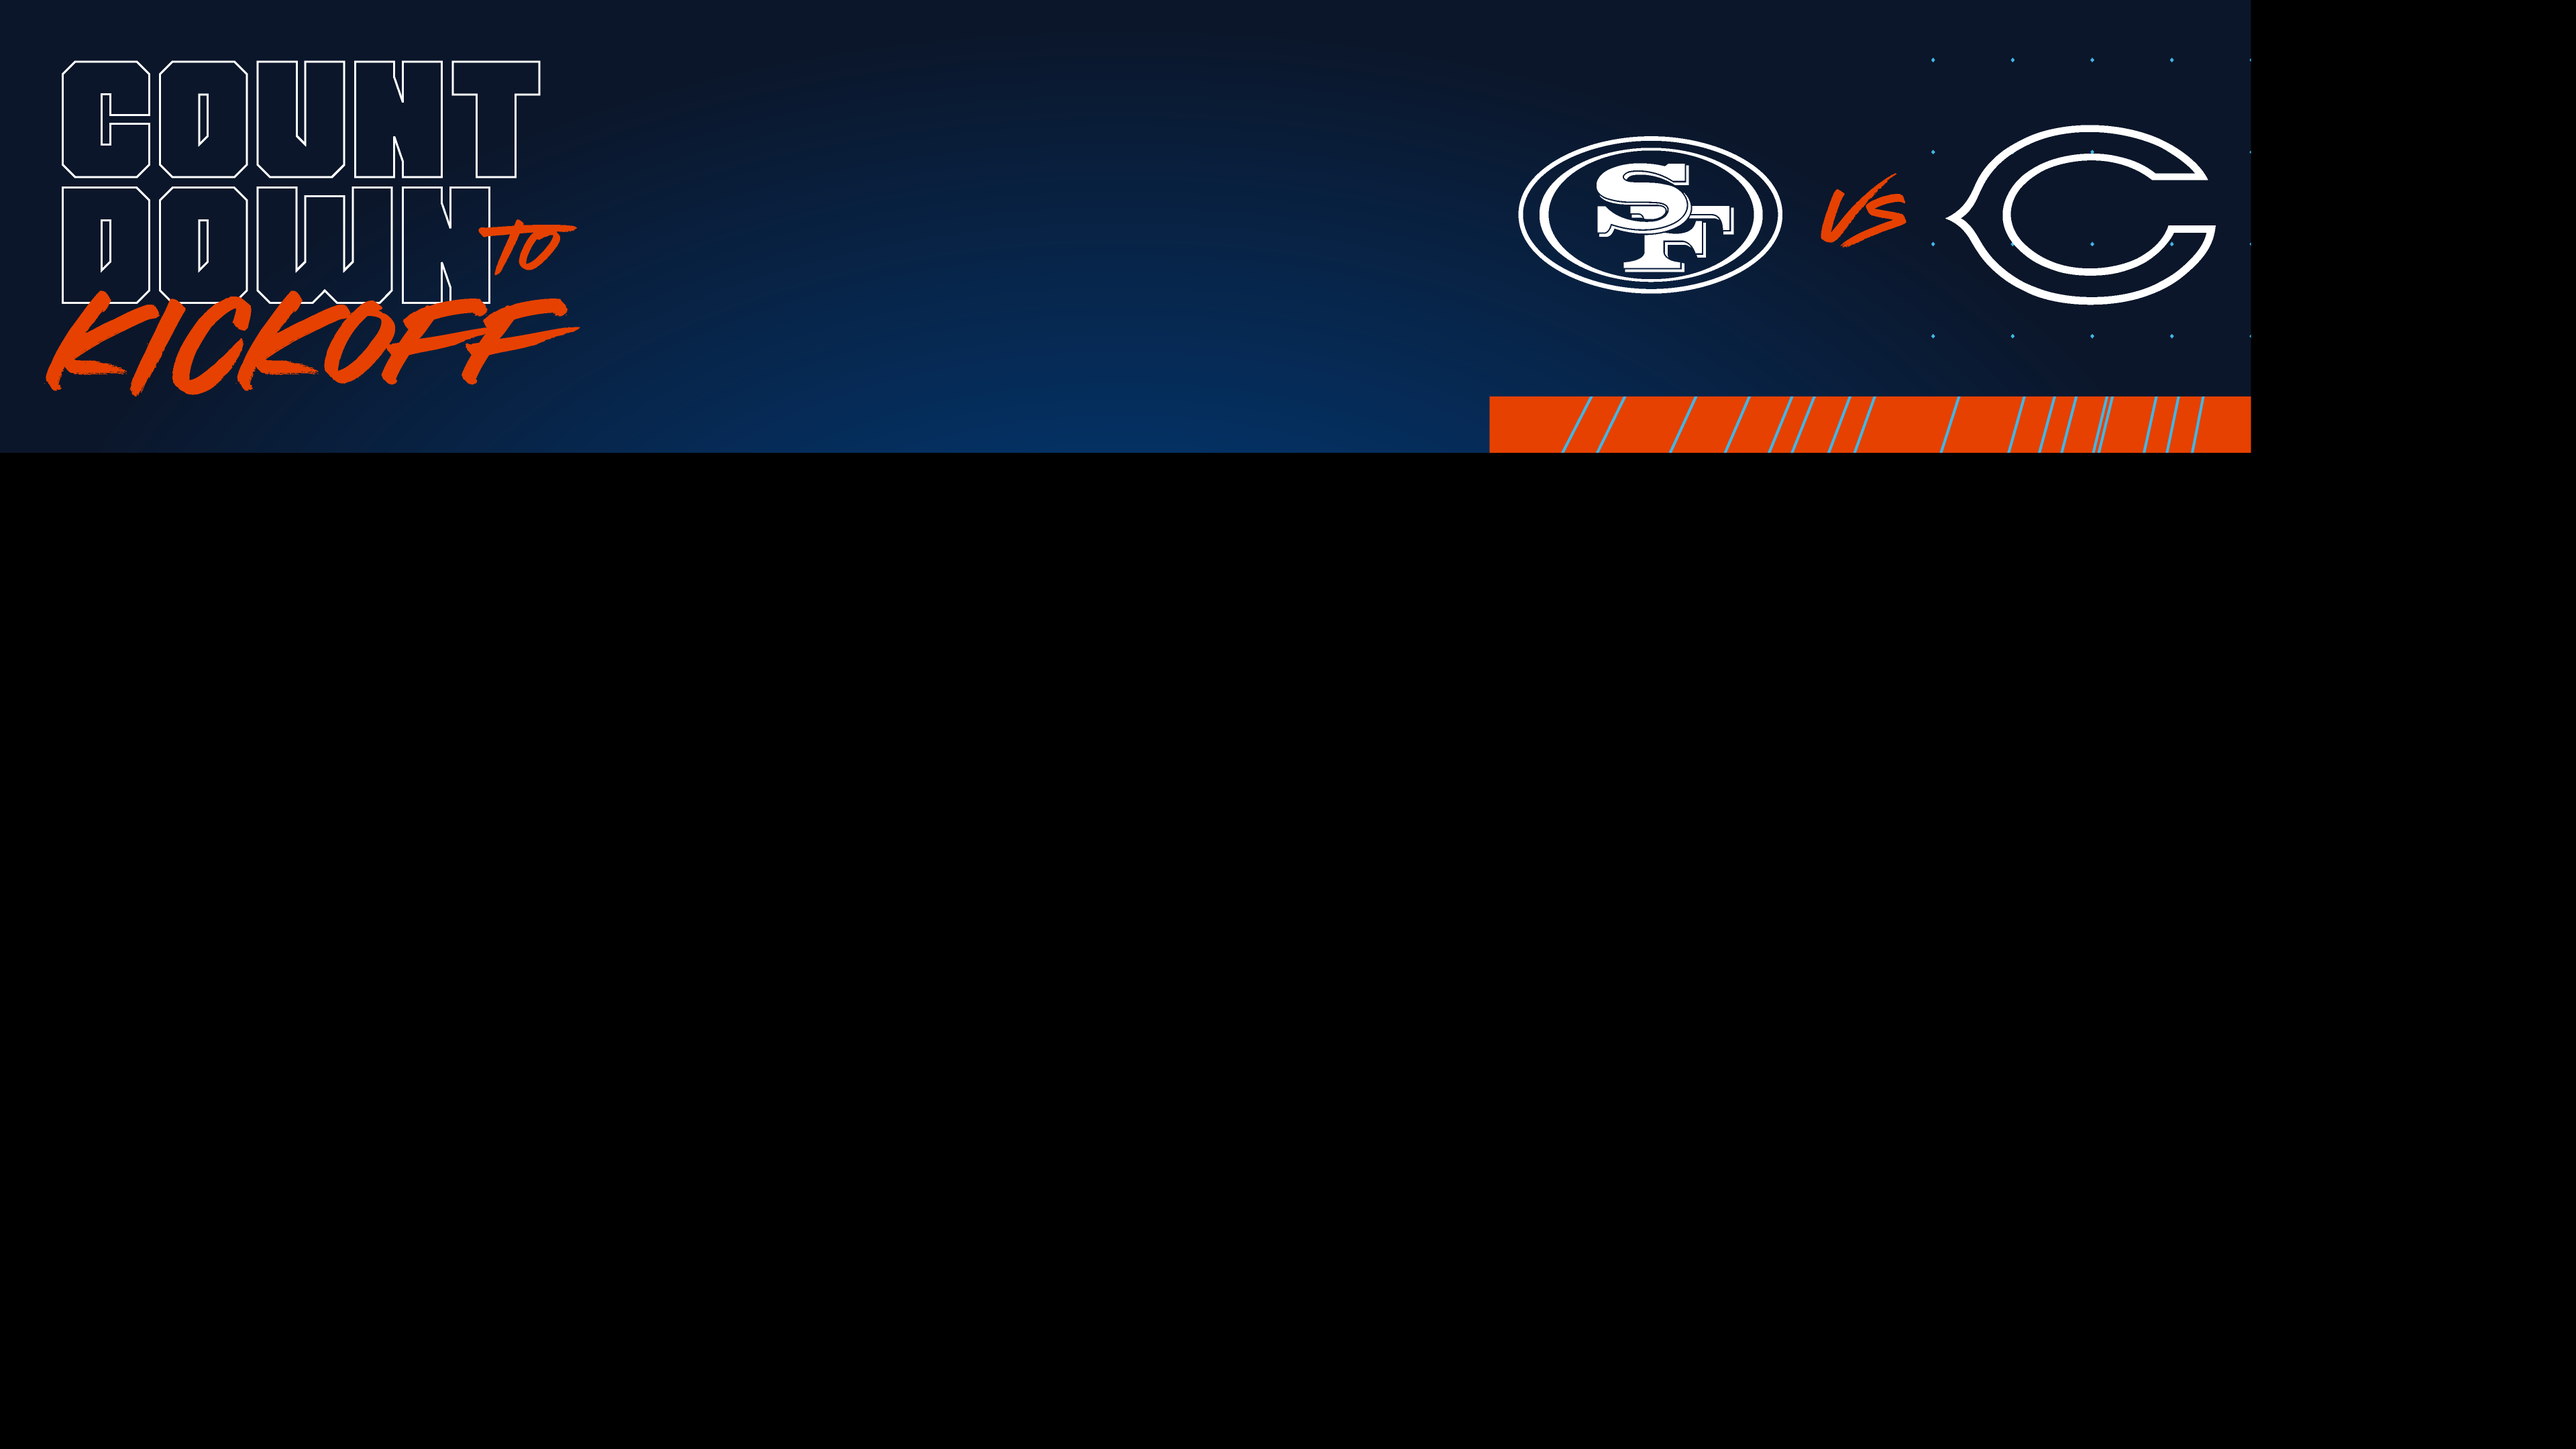
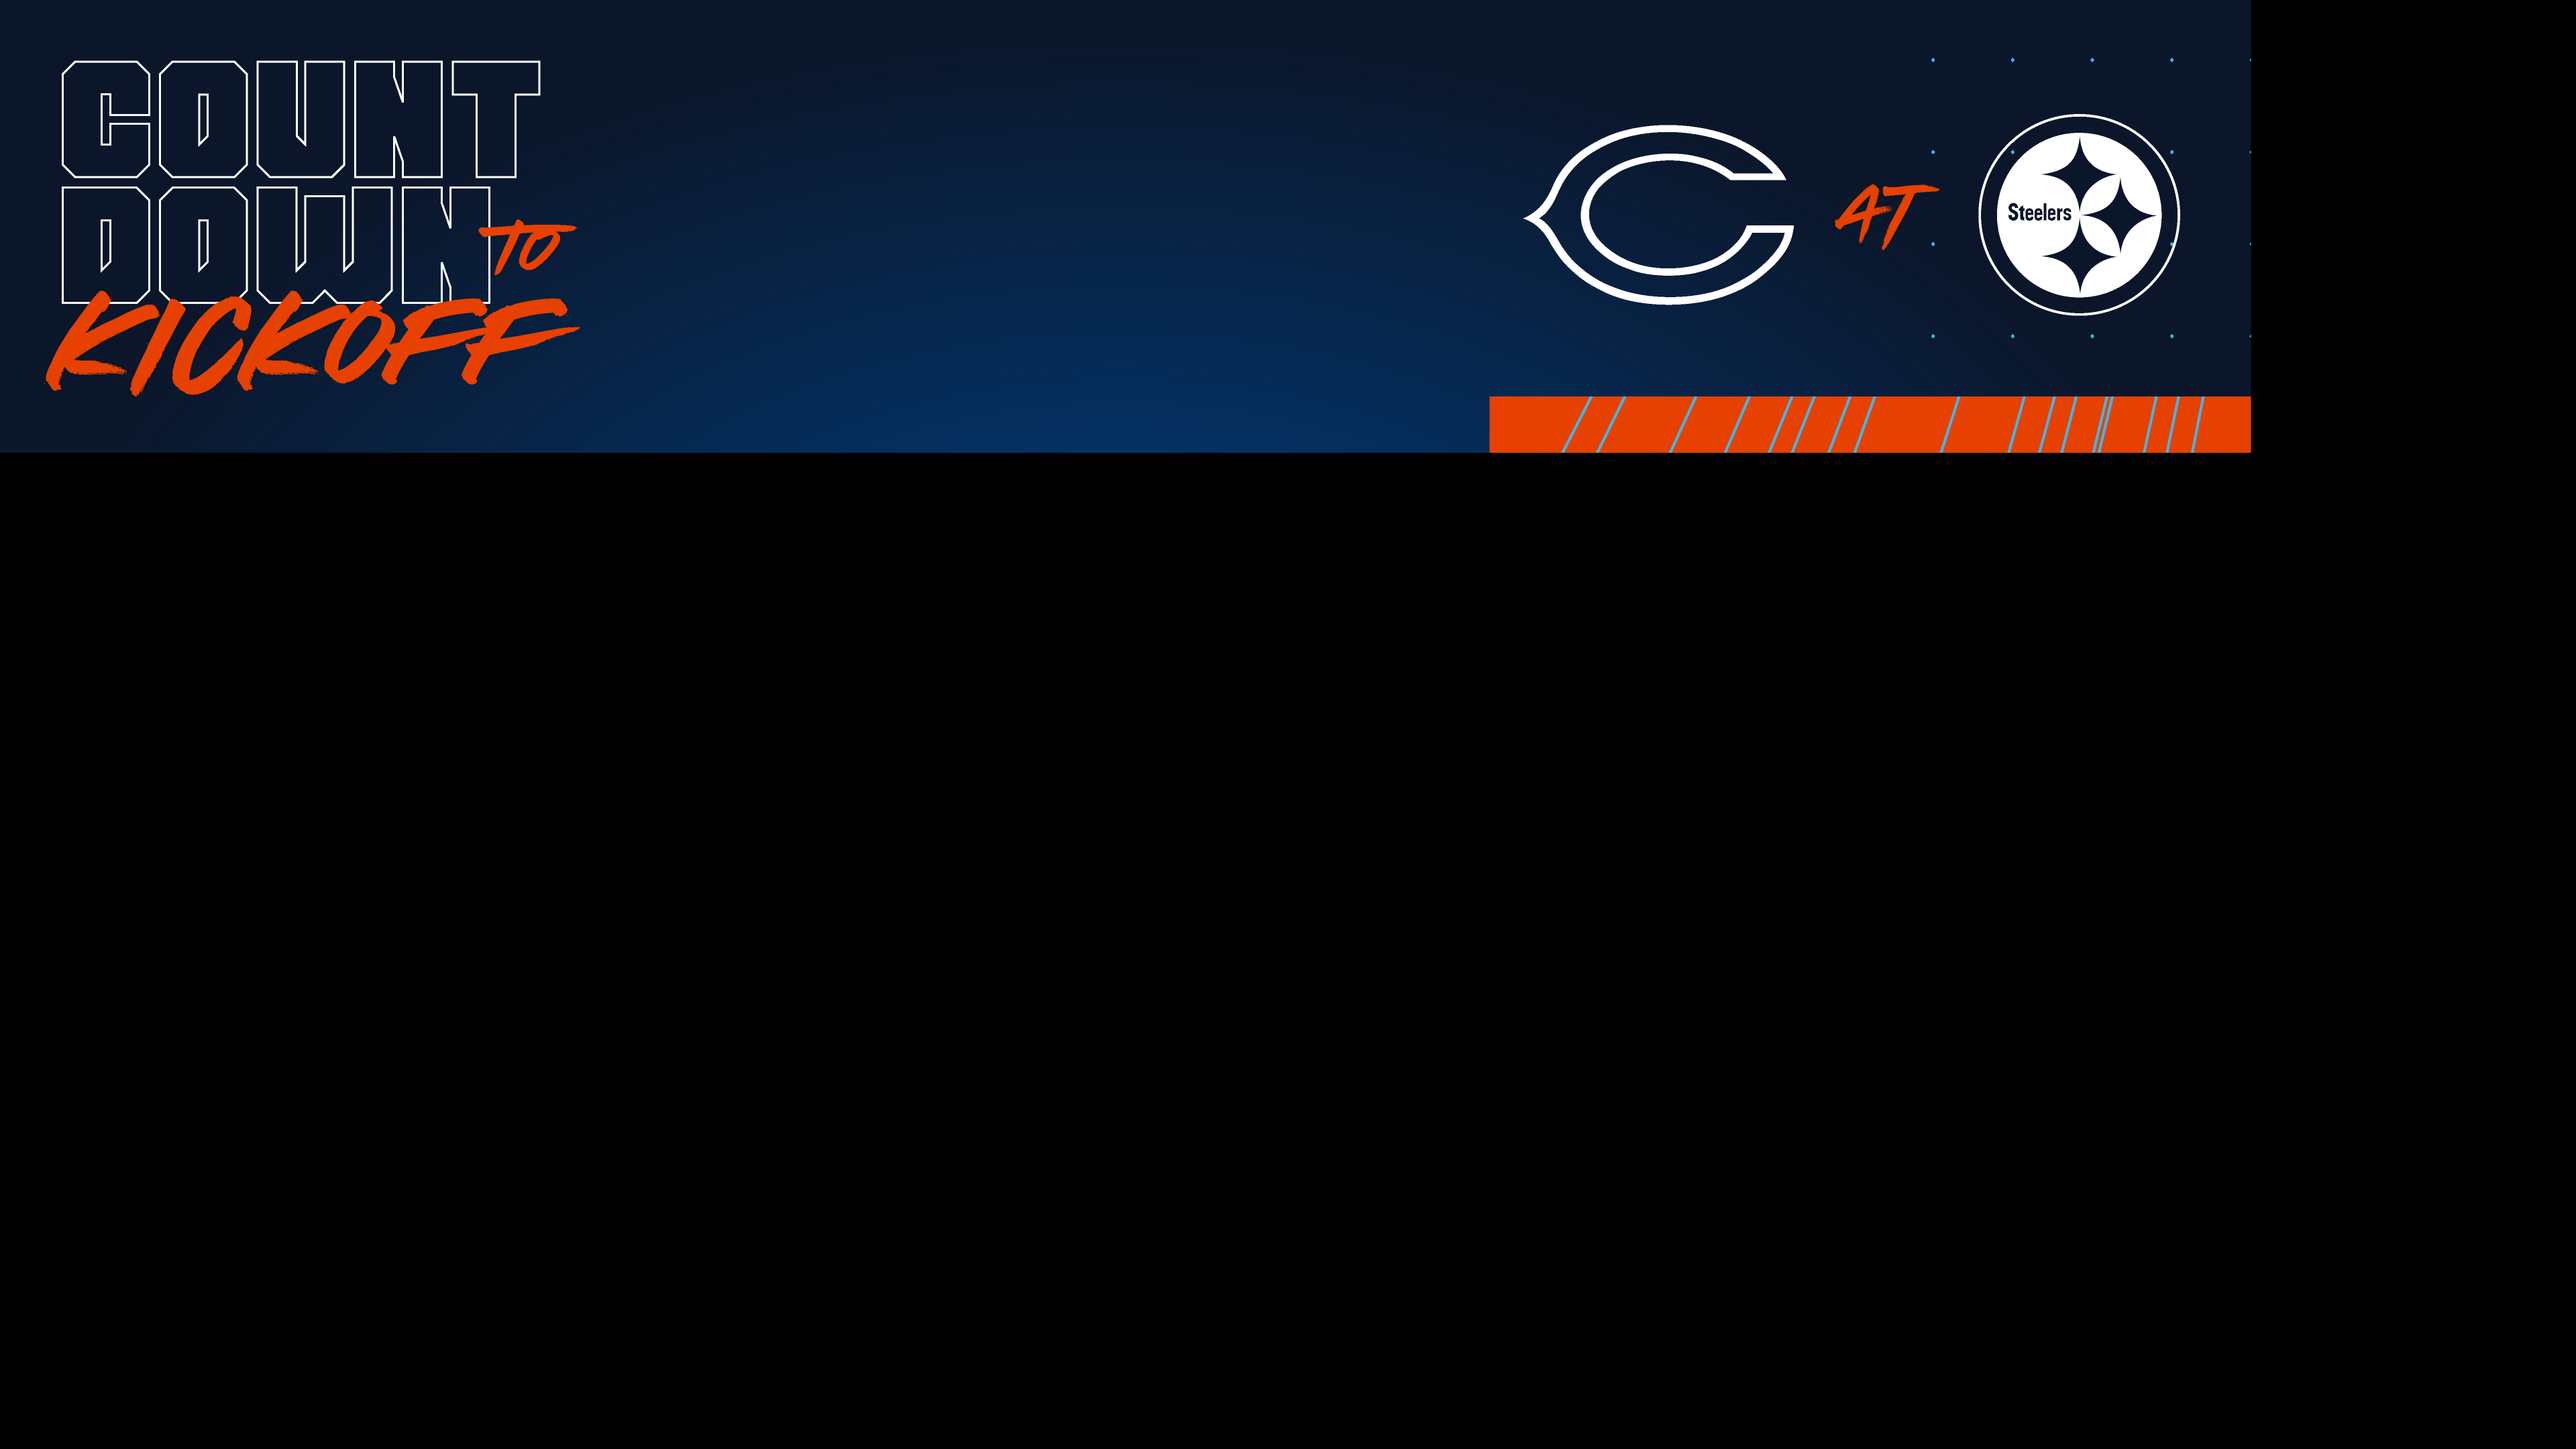
PIT game

Changed region(s): [[0.5938, 0.062, 0.875, 0.2171]]

diff --git a/CurrentWeek/Horizontal/script.js b/CurrentWeek/Horizontal/script.js
@@ -68,9 +68,9 @@ $(document).ready(function(){
 			return futureFormattedDate
 		}
 		//USE 24HR MILITARY TIME
-		//SF
+		//PIT
 		$("#countdown").countdown({
-			date: "31 October 2021 12:00:00",
+			date: "8 November 2021 12:00:00",
 			format: "on"
 		});
 	});
